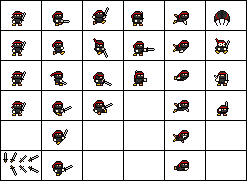
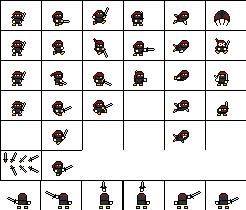
Ninja Spritesheet Updated & New Animation Added

Changed region(s): [[0.0, 0.0, 1.0, 1.0]]

diff --git a/Sprint_1/Sprint_Project/Game.py b/Sprint_1/Sprint_Project/Game.py
@@ -34,7 +34,7 @@ NINJA_IMAGE_PATH = Path(__file__).resolve().parent / "Images" / "Ninja.png"
 NINJA_FRAME_WIDTH = 41
 NINJA_FRAME_HEIGHT = 30
 NINJA_COLUMNS = 6
-NINJA_ROWS = 6
+NINJA_ROWS = 7
 NINJA_SCALE = 3.0
 HERO_ATTACK_TIME = 0.36
 HERO_HURT_TIME = 0.35
@@ -89,12 +89,11 @@ class Enemy(arcade.Sprite):
 class HeroPlayer(arcade.Sprite):
     """Animated ninja made from the irregular grid in Images/Ninja.png."""
 
-    # Ninja.png is a 6-by-6 sheet with 41x30 pixel cells. It does not contain
-    # a dedicated top-down attack, so the sword-swing frames are the closest
-    # match for the W attack.
+    # Ninja.png is a 6-by-7 sheet with 41x30 pixel cells. The final row is the
+    # dedicated upward sword attack used when the player presses W.
     RUN_CELLS = [(1, row) for row in range(6)]
     SIDE_ATTACK_CELLS = [(2, row) for row in range(4)]
-    UP_ATTACK_CELLS = [(1, 3), (1, 4), (2, 0), (2, 3)]
+    UP_ATTACK_CELLS = [(column, 6) for column in range(6)]
 
     def __init__(self) -> None:
         image = Image.open(NINJA_IMAGE_PATH).convert("RGBA")
